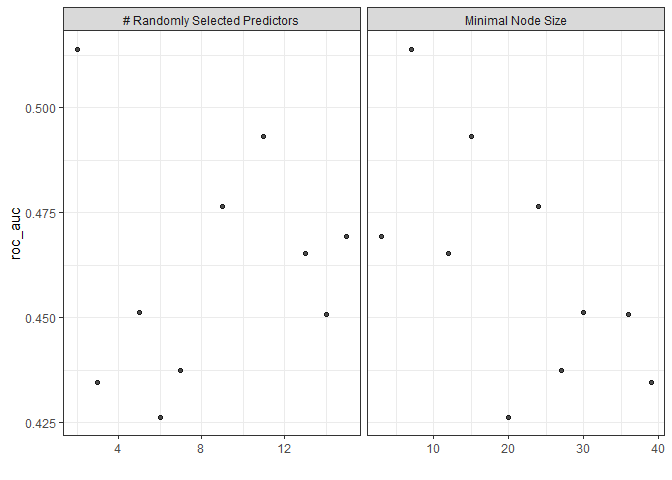
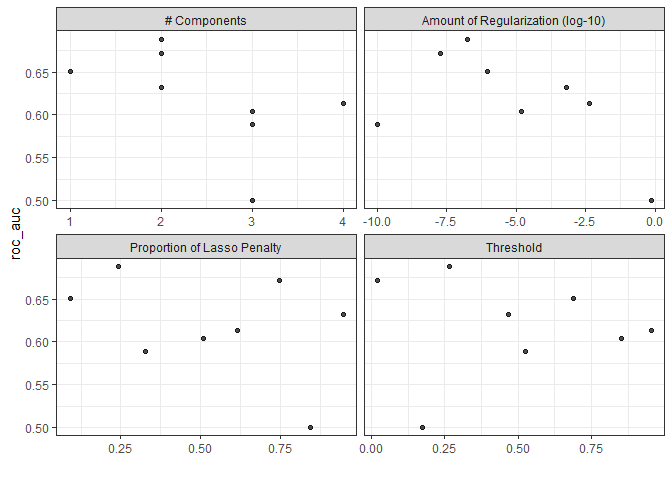
Knit to github doc

diff --git a/predicting_personality.md b/predicting_personality.md
@@ -3,44 +3,56 @@ Posture Project
 Giovani Gutierrez
 2023-02-15
 
-- <a href="#getting-started" id="toc-getting-started">Getting Started</a>
-  - <a href="#setup" id="toc-setup">Setup</a>
-  - <a href="#import-data" id="toc-import-data">Import Data</a>
-  - <a href="#tidy-data--missing-values"
-    id="toc-tidy-data--missing-values">Tidy Data &amp; Missing Values</a>
-- <a href="#exploratory-data-analysis-eda"
-  id="toc-exploratory-data-analysis-eda">Exploratory Data Analysis
+- <a href="#1-getting-started" id="toc-1-getting-started">1 Getting
+  Started</a>
+  - <a href="#11-setup" id="toc-11-setup">1.1 Setup</a>
+  - <a href="#12-import-data" id="toc-12-import-data">1.2 Import Data</a>
+  - <a href="#13-tidy-data--missing-values"
+    id="toc-13-tidy-data--missing-values">1.3 Tidy Data &amp; Missing
+    Values</a>
+- <a href="#2-exploratory-data-analysis-eda"
+  id="toc-2-exploratory-data-analysis-eda">2 Exploratory Data Analysis
   (EDA)</a>
-  - <a href="#correlation-between-features"
-    id="toc-correlation-between-features">Correlation Between Features</a>
-  - <a href="#visual-eda" id="toc-visual-eda">Visual EDA</a>
-- <a href="#model-setup" id="toc-model-setup">Model Setup</a>
-  - <a href="#data-split--k-fold-cross-validation"
-    id="toc-data-split--k-fold-cross-validation">Data Split &amp;
+  - <a href="#21-correlation-between-features"
+    id="toc-21-correlation-between-features">2.1 Correlation Between
+    Features</a>
+  - <a href="#22-visual-eda" id="toc-22-visual-eda">2.2 Visual EDA</a>
+- <a href="#3-model-setup" id="toc-3-model-setup">3 Model Setup</a>
+  - <a href="#31-data-split--k-fold-cross-validation"
+    id="toc-31-data-split--k-fold-cross-validation">3.1 Data Split &amp;
     <em>k</em>-Fold Cross Validation</a>
-  - <a href="#recipe-building--workflow"
-    id="toc-recipe-building--workflow">Recipe Building &amp; Workflow</a>
-  - <a href="#model-specifications" id="toc-model-specifications">Model
-    Specifications</a>
-    - <a href="#first-recipe-simple_rec"
-      id="toc-first-recipe-simple_rec">First Recipe
+  - <a href="#32-recipe-building--workflow"
+    id="toc-32-recipe-building--workflow">3.2 Recipe Building &amp;
+    Workflow</a>
+  - <a href="#33-model-specifications" id="toc-33-model-specifications">3.3
+    Model Specifications</a>
+    - <a href="#331-first-recipe-simple_rec"
+      id="toc-331-first-recipe-simple_rec">3.3.1 First Recipe
       (<code>simple_rec</code>)</a>
-    - <a href="#second-recipe-corr_rec" id="toc-second-recipe-corr_rec">Second
-      Recipe (<code>corr_rec</code>)</a>
-- <a href="#model-tuning--evaluation"
-  id="toc-model-tuning--evaluation">Model Tuning &amp; Evaluation</a>
-  - <a href="#workflow-sets" id="toc-workflow-sets">Workflow Sets</a>
-  - <a href="#workflow-map--tuning" id="toc-workflow-map--tuning">Workflow
-    Map &amp; Tuning</a>
-  - <a href="#evaluation-of-models" id="toc-evaluation-of-models">Evaluation
-    of Models</a>
-    - <a href="#k-nearest-neighbors-1"
-      id="toc-k-nearest-neighbors-1">K-Nearest Neighbors</a>
-    - <a href="#random-forest-1" id="toc-random-forest-1">Random Forest</a>
+    - <a href="#332-second-recipe-corr_rec"
+      id="toc-332-second-recipe-corr_rec">3.3.2 Second Recipe
+      (<code>corr_rec</code>)</a>
+    - <a href="#333-third-recipe-pca_rec"
+      id="toc-333-third-recipe-pca_rec">3.3.3 Third Recipe
+      (<code>pca_rec</code>)</a>
+- <a href="#4-model-tuning--evaluation"
+  id="toc-4-model-tuning--evaluation">4 Model Tuning &amp; Evaluation</a>
+  - <a href="#41-workflow-sets" id="toc-41-workflow-sets">4.1 Workflow
+    Sets</a>
+  - <a href="#42-workflow-map--tuning" id="toc-42-workflow-map--tuning">4.2
+    Workflow Map &amp; Tuning</a>
+  - <a href="#43-evaluation-of-models" id="toc-43-evaluation-of-models">4.3
+    Evaluation of Models</a>
+    - <a href="#431-linear-support-vector-machine"
+      id="toc-431-linear-support-vector-machine">4.3.1 Linear Support Vector
+      Machine</a>
+    - <a href="#432-elastic-net-logistic-regression"
+      id="toc-432-elastic-net-logistic-regression">4.3.2 Elastic Net Logistic
+      Regression</a>
 
-# Getting Started
+# 1 Getting Started
 
-## Setup
+## 1.1 Setup
 
 ``` r
 library(tidyverse)
@@ -53,17 +65,17 @@ library(corrplot)
 library(patchwork)
 library(glmnet)
 library(kknn)
-library(rpart)
-library(rpart.plot)
 library(ranger)
 library(vip)
+library(kernlab)
+library(xgboost)
 tidymodels_prefer()
 theme_set(theme_bw())
 
 set.seed(123)  # set seed
 ```
 
-## Import Data
+## 1.2 Import Data
 
 ``` r
 data1 <- read_xls("C:/Users/giova/Desktop/PSTAT 131/predicting_personality/Data/Posture_Data.xls") %>%
@@ -75,20 +87,15 @@ data1 %>%
 head(data1)  # preview data
 ```
 
-<div class="kable-table">
+<div data-pagedtable="false">
 
-| number_1 | age | height | weight | sex    | activity_level | pain_1 | pain_2 | pain_3 | pain_4 | mbti | e   | i   | s   | n   | t   | f   | j   | p   | posture | number_21 | l1  | l2_d               | l3  | l4_d | l5  | l6_d | l7  | l8_d | l9  | l10_d              | l11 | l12_i | l13 | l14_i               | l15 | l16_i | l17 | l18_i | l19 | l20_i | l21 | l22_i | l23 | l24_i               | l25_i |  l26 | l27 | l28 | l29 | l30                |  l31 |   l32 | l33                 | l34 | l35 |    l36 |   l37 | l38 | l39 | l40 | l41 | l42 | l43 | l44 | l45 |
-|:---------|----:|-------:|-------:|:-------|:---------------|:-------|:-------|:-------|:-------|:-----|:----|:----|:----|:----|:----|:----|:----|:----|:--------|:----------|:----|:-------------------|:----|-----:|:----|-----:|:----|-----:|:----|:-------------------|:----|------:|:----|:--------------------|:----|------:|:----|------:|:----|------:|:----|------:|:----|:--------------------|------:|-----:|----:|----:|:----|:-------------------|-----:|------:|:--------------------|----:|:----|-------:|------:|:----|:----|:----|:----|:----|:----|:----|:----|
-| 1        |  53 |     62 |    125 | Female | Low            | 0      | 0      | 0      | 0      | ESFJ | 18  | 3   | 17  | 9   | 9   | 13  | 18  | 4   | A       | 1         | A   | 4.7000000000000002 | A   |  3.3 | A   |  5.3 | P   |  2.6 | A   | 12.0               | A   |   1.3 | A   | 0.90000000000000002 | A   |   0.0 | A   |   0.5 | P   |   0.5 | L   |   0.5 | A   | 0.59999999999999998 |   0.8 | 10.1 | 0.4 | 0.4 | P   | 56.100000000000001 | 12.6 |  72.3 | 0.29999999999999999 | 2.1 | P   | 364.10 |  81.8 | NA  | NA  | NA  | NA  | NA  | NA  | NA  | NA  |
-| 3        |  30 |     69 |    200 | Male   | High           | 0      | 0      | 0      | 0      | ESTJ | 15  | 6   | 16  | 10  | 15  | 9   | 12  | 10  | A       | 3         | A   | 27.300000000000001 | P   |  5.2 | P   |  0.3 | A   |  3.8 | A   | 12                 | A   |   2.7 | A   | 0.0                 | A   |   1.4 | A   |   0.9 | A   |   1.0 | NA  |   0.0 | A   | 0.69999999999999996 |   0.7 | 16.2 | 2.7 | 4.9 | P   | 194.80000000000001 | 43.8 | 115.6 | 0.10000000000000001 | 1.2 | A   | 537.60 | 120.8 | X   | NA  | NA  | NA  | NA  | NA  | NA  | NA  |
-| 5        |  45 |     63 |    199 | Female | Moderate       | 4      | 5      | 2      | 2      | ENFJ | 14  | 7   | 20  | 6   | 9   | 15  | 16  | 6   | A       | 5         | A   | 2.5                | A   |  2.0 | A   |  2.6 | A   |  1.4 | A   | 20.100000000000001 | A   |   1.0 | A   | 0.90000000000000002 | A   |   0.3 | A   |   1.0 | A   |   0.3 | NA  |   0.0 | A   | 0.80000000000000004 |   0.8 | 16.1 | 0.2 | 0.3 | P   | 79.900000000000006 | 18.0 | 115.0 | 0                   | 0.4 | A   | 520.10 | 116.9 | NA  | NA  | NA  | NA  | NA  | X   | X   | X   |
-| 15       |  30 |     69 |    190 | Male   | Moderate       | 0      | 0      | 4      | 7      | ESTP | 20  | 1   | 22  | 4   | 13  | 11  | 7   | 15  | A       | 16        | A   | 8.5                | A   |  4.0 | A   |  2.0 | P   |  1.5 | A   | 15.300000000000001 | A   |   1.8 | A   | 1.1000000000000001  | P   |   0.0 | A   |   0.1 | P   |   0.3 | L   |   0.1 | A   | 0.5                 |   0.5 | 15.4 | 0.7 | 1.1 | P   | 96.090000000000003 | 21.8 | 109.8 | 0.59999999999999998 | 7.4 | P   | 637.10 | 143.2 | NA  | NA  | NA  | NA  | NA  | NA  | NA  | NA  |
-| 17       |  59 |     66 |    138 | Female | Low            | 6      | 3      | 6      | 6      | ESTJ | 12  | 9   | 18  | 8   | 14  | 10  | 20  | 2   | A       | 19        | A   | 0.5                | P   |  1.1 | A   |  0.3 | A   |  4.0 | A   | 12.1               | A   |   0.4 | A   | 0.40000000000000002 | A   |   0.7 | A   |   1.0 | A   |   0.9 | L   |   0.5 | A   | 0.59999999999999998 |   0.8 | 11.2 | 0.0 | 0.1 | P   | 51.100000000000001 | 11.5 |  79.8 | 0.29999999999999999 | 2.9 | A   | 412.00 |  92.6 | NA  | NA  | NA  | NA  | NA  | NA  | NA  | NA  |
-| 27       |  36 |     68 |    165 | Male   | High           | 0      | 2      | 0      | 0      | ESTP | 16  | 5   | 20  | 6   | 15  | 9   | 7   | 15  | A       | 29        | A   | 14                 | P   |  2.6 | A   |  1.6 | A   |  1.0 | A   | 14.199999999999999 | A   |   1.2 | P   | 0.10000000000000001 | A   |   0.6 | A   |   0.6 | A   |   0.2 | L   |   0.2 | A   | 0.40000000000000002 |   0.4 | 13.4 | 1.3 | 1.9 | P   | 107.59999999999999 | 24.2 |  95.4 | 0.20000000000000001 | 2.3 | A   | 469.05 | 105.5 | X   | NA  | NA  | NA  | NA  | NA  | NA  | NA  |
+<script data-pagedtable-source type="application/json">
+{"columns":[{"label":["number_1"],"name":[1],"type":["chr"],"align":["left"]},{"label":["age"],"name":[2],"type":["dbl"],"align":["right"]},{"label":["height"],"name":[3],"type":["dbl"],"align":["right"]},{"label":["weight"],"name":[4],"type":["dbl"],"align":["right"]},{"label":["sex"],"name":[5],"type":["chr"],"align":["left"]},{"label":["activity_level"],"name":[6],"type":["chr"],"align":["left"]},{"label":["pain_1"],"name":[7],"type":["chr"],"align":["left"]},{"label":["pain_2"],"name":[8],"type":["chr"],"align":["left"]},{"label":["pain_3"],"name":[9],"type":["chr"],"align":["left"]},{"label":["pain_4"],"name":[10],"type":["chr"],"align":["left"]},{"label":["mbti"],"name":[11],"type":["chr"],"align":["left"]},{"label":["e"],"name":[12],"type":["chr"],"align":["left"]},{"label":["i"],"name":[13],"type":["chr"],"align":["left"]},{"label":["s"],"name":[14],"type":["chr"],"align":["left"]},{"label":["n"],"name":[15],"type":["chr"],"align":["left"]},{"label":["t"],"name":[16],"type":["chr"],"align":["left"]},{"label":["f"],"name":[17],"type":["chr"],"align":["left"]},{"label":["j"],"name":[18],"type":["chr"],"align":["left"]},{"label":["p"],"name":[19],"type":["chr"],"align":["left"]},{"label":["posture"],"name":[20],"type":["chr"],"align":["left"]},{"label":["number_21"],"name":[21],"type":["chr"],"align":["left"]},{"label":["l1"],"name":[22],"type":["chr"],"align":["left"]},{"label":["l2_d"],"name":[23],"type":["chr"],"align":["left"]},{"label":["l3"],"name":[24],"type":["chr"],"align":["left"]},{"label":["l4_d"],"name":[25],"type":["dbl"],"align":["right"]},{"label":["l5"],"name":[26],"type":["chr"],"align":["left"]},{"label":["l6_d"],"name":[27],"type":["dbl"],"align":["right"]},{"label":["l7"],"name":[28],"type":["chr"],"align":["left"]},{"label":["l8_d"],"name":[29],"type":["dbl"],"align":["right"]},{"label":["l9"],"name":[30],"type":["chr"],"align":["left"]},{"label":["l10_d"],"name":[31],"type":["chr"],"align":["left"]},{"label":["l11"],"name":[32],"type":["chr"],"align":["left"]},{"label":["l12_i"],"name":[33],"type":["dbl"],"align":["right"]},{"label":["l13"],"name":[34],"type":["chr"],"align":["left"]},{"label":["l14_i"],"name":[35],"type":["chr"],"align":["left"]},{"label":["l15"],"name":[36],"type":["chr"],"align":["left"]},{"label":["l16_i"],"name":[37],"type":["dbl"],"align":["right"]},{"label":["l17"],"name":[38],"type":["chr"],"align":["left"]},{"label":["l18_i"],"name":[39],"type":["dbl"],"align":["right"]},{"label":["l19"],"name":[40],"type":["chr"],"align":["left"]},{"label":["l20_i"],"name":[41],"type":["dbl"],"align":["right"]},{"label":["l21"],"name":[42],"type":["chr"],"align":["left"]},{"label":["l22_i"],"name":[43],"type":["dbl"],"align":["right"]},{"label":["l23"],"name":[44],"type":["chr"],"align":["left"]},{"label":["l24_i"],"name":[45],"type":["chr"],"align":["left"]},{"label":["l25_i"],"name":[46],"type":["dbl"],"align":["right"]},{"label":["l26"],"name":[47],"type":["dbl"],"align":["right"]},{"label":["l27"],"name":[48],"type":["dbl"],"align":["right"]},{"label":["l28"],"name":[49],"type":["dbl"],"align":["right"]},{"label":["l29"],"name":[50],"type":["chr"],"align":["left"]},{"label":["l30"],"name":[51],"type":["chr"],"align":["left"]},{"label":["l31"],"name":[52],"type":["dbl"],"align":["right"]},{"label":["l32"],"name":[53],"type":["dbl"],"align":["right"]},{"label":["l33"],"name":[54],"type":["chr"],"align":["left"]},{"label":["l34"],"name":[55],"type":["dbl"],"align":["right"]},{"label":["l35"],"name":[56],"type":["chr"],"align":["left"]},{"label":["l36"],"name":[57],"type":["dbl"],"align":["right"]},{"label":["l37"],"name":[58],"type":["dbl"],"align":["right"]},{"label":["l38"],"name":[59],"type":["chr"],"align":["left"]},{"label":["l39"],"name":[60],"type":["chr"],"align":["left"]},{"label":["l40"],"name":[61],"type":["chr"],"align":["left"]},{"label":["l41"],"name":[62],"type":["chr"],"align":["left"]},{"label":["l42"],"name":[63],"type":["chr"],"align":["left"]},{"label":["l43"],"name":[64],"type":["chr"],"align":["left"]},{"label":["l44"],"name":[65],"type":["chr"],"align":["left"]},{"label":["l45"],"name":[66],"type":["chr"],"align":["left"]}],"data":[{"1":"1","2":"53","3":"62","4":"125","5":"Female","6":"Low","7":"0","8":"0","9":"0","10":"0","11":"ESFJ","12":"18","13":"3","14":"17","15":"9","16":"9","17":"13","18":"18","19":"4","20":"A","21":"1","22":"A","23":"4.7000000000000002","24":"A","25":"3.3","26":"A","27":"5.3","28":"P","29":"2.6","30":"A","31":"12.0","32":"A","33":"1.3","34":"A","35":"0.90000000000000002","36":"A","37":"0.0","38":"A","39":"0.5","40":"P","41":"0.5","42":"L","43":"0.5","44":"A","45":"0.59999999999999998","46":"0.8","47":"10.1","48":"0.4","49":"0.4","50":"P","51":"56.100000000000001","52":"12.6","53":"72.3","54":"0.29999999999999999","55":"2.1","56":"P","57":"364.10","58":"81.8","59":"NA","60":"NA","61":"NA","62":"NA","63":"NA","64":"NA","65":"NA","66":"NA"},{"1":"3","2":"30","3":"69","4":"200","5":"Male","6":"High","7":"0","8":"0","9":"0","10":"0","11":"ESTJ","12":"15","13":"6","14":"16","15":"10","16":"15","17":"9","18":"12","19":"10","20":"A","21":"3","22":"A","23":"27.300000000000001","24":"P","25":"5.2","26":"P","27":"0.3","28":"A","29":"3.8","30":"A","31":"12","32":"A","33":"2.7","34":"A","35":"0.0","36":"A","37":"1.4","38":"A","39":"0.9","40":"A","41":"1.0","42":"NA","43":"0.0","44":"A","45":"0.69999999999999996","46":"0.7","47":"16.2","48":"2.7","49":"4.9","50":"P","51":"194.80000000000001","52":"43.8","53":"115.6","54":"0.10000000000000001","55":"1.2","56":"A","57":"537.60","58":"120.8","59":"X","60":"NA","61":"NA","62":"NA","63":"NA","64":"NA","65":"NA","66":"NA"},{"1":"5","2":"45","3":"63","4":"199","5":"Female","6":"Moderate","7":"4","8":"5","9":"2","10":"2","11":"ENFJ","12":"14","13":"7","14":"20","15":"6","16":"9","17":"15","18":"16","19":"6","20":"A","21":"5","22":"A","23":"2.5","24":"A","25":"2.0","26":"A","27":"2.6","28":"A","29":"1.4","30":"A","31":"20.100000000000001","32":"A","33":"1.0","34":"A","35":"0.90000000000000002","36":"A","37":"0.3","38":"A","39":"1.0","40":"A","41":"0.3","42":"NA","43":"0.0","44":"A","45":"0.80000000000000004","46":"0.8","47":"16.1","48":"0.2","49":"0.3","50":"P","51":"79.900000000000006","52":"18.0","53":"115.0","54":"0","55":"0.4","56":"A","57":"520.10","58":"116.9","59":"NA","60":"NA","61":"NA","62":"NA","63":"NA","64":"X","65":"X","66":"X"},{"1":"15","2":"30","3":"69","4":"190","5":"Male","6":"Moderate","7":"0","8":"0","9":"4","10":"7","11":"ESTP","12":"20","13":"1","14":"22","15":"4","16":"13","17":"11","18":"7","19":"15","20":"A","21":"16","22":"A","23":"8.5","24":"A","25":"4.0","26":"A","27":"2.0","28":"P","29":"1.5","30":"A","31":"15.300000000000001","32":"A","33":"1.8","34":"A","35":"1.1000000000000001","36":"P","37":"0.0","38":"A","39":"0.1","40":"P","41":"0.3","42":"L","43":"0.1","44":"A","45":"0.5","46":"0.5","47":"15.4","48":"0.7","49":"1.1","50":"P","51":"96.090000000000003","52":"21.8","53":"109.8","54":"0.59999999999999998","55":"7.4","56":"P","57":"637.10","58":"143.2","59":"NA","60":"NA","61":"NA","62":"NA","63":"NA","64":"NA","65":"NA","66":"NA"},{"1":"17","2":"59","3":"66","4":"138","5":"Female","6":"Low","7":"6","8":"3","9":"6","10":"6","11":"ESTJ","12":"12","13":"9","14":"18","15":"8","16":"14","17":"10","18":"20","19":"2","20":"A","21":"19","22":"A","23":"0.5","24":"P","25":"1.1","26":"A","27":"0.3","28":"A","29":"4.0","30":"A","31":"12.1","32":"A","33":"0.4","34":"A","35":"0.40000000000000002","36":"A","37":"0.7","38":"A","39":"1.0","40":"A","41":"0.9","42":"L","43":"0.5","44":"A","45":"0.59999999999999998","46":"0.8","47":"11.2","48":"0.0","49":"0.1","50":"P","51":"51.100000000000001","52":"11.5","53":"79.8","54":"0.29999999999999999","55":"2.9","56":"A","57":"412.00","58":"92.6","59":"NA","60":"NA","61":"NA","62":"NA","63":"NA","64":"NA","65":"NA","66":"NA"},{"1":"27","2":"36","3":"68","4":"165","5":"Male","6":"High","7":"0","8":"2","9":"0","10":"0","11":"ESTP","12":"16","13":"5","14":"20","15":"6","16":"15","17":"9","18":"7","19":"15","20":"A","21":"29","22":"A","23":"14","24":"P","25":"2.6","26":"A","27":"1.6","28":"A","29":"1.0","30":"A","31":"14.199999999999999","32":"A","33":"1.2","34":"P","35":"0.10000000000000001","36":"A","37":"0.6","38":"A","39":"0.6","40":"A","41":"0.2","42":"L","43":"0.2","44":"A","45":"0.40000000000000002","46":"0.4","47":"13.4","48":"1.3","49":"1.9","50":"P","51":"107.59999999999999","52":"24.2","53":"95.4","54":"0.20000000000000001","55":"2.3","56":"A","57":"469.05","58":"105.5","59":"X","60":"NA","61":"NA","62":"NA","63":"NA","64":"NA","65":"NA","66":"NA"}],"options":{"columns":{"min":{},"max":[10]},"rows":{"min":[10],"max":[10]},"pages":{}}}
+  </script>
 
 </div>
 
-## Tidy Data & Missing Values
+## 1.3 Tidy Data & Missing Values
 
 ``` r
 data1 <- data1 %>%
@@ -107,8 +114,7 @@ data1 <- data1 %>%
 
 data1 <- data1 %>%
     mutate(sex = factor(sex)) %>%
-    mutate(activity_level = ordered(activity_level, levels = c("Low", "Moderate",
-        "High"))) %>%
+    mutate(activity_level = factor(activity_level)) %>%
     mutate_at(c("pain_1", "pain_2", "pain_3", "pain_4"), as.numeric) %>%
     mutate(e_i = factor(ifelse(e > i, "Extrovert", "Introvert"))) %>%
     mutate_at(c("s", "n", "t", "f", "j", "p"), as.numeric) %>%
@@ -128,16 +134,11 @@ data1 %>%
 head(data1)  # preview cleaned data
 ```
 
-<div class="kable-table">
+<div data-pagedtable="false">
 
-| age | height | weight | sex    | activity_level | pain_1 | pain_2 | pain_3 | pain_4 |   s |   n |   t |   f |   j |   p | posture | e_i       |
-|----:|-------:|-------:|:-------|:---------------|-------:|-------:|-------:|-------:|----:|----:|----:|----:|----:|----:|:--------|:----------|
-|  53 |     62 |    125 | Female | Low            |      0 |      0 |      0 |      0 |  17 |   9 |   9 |  13 |  18 |   4 | A       | Introvert |
-|  30 |     69 |    200 | Male   | High           |      0 |      0 |      0 |      0 |  16 |  10 |  15 |   9 |  12 |  10 | A       | Introvert |
-|  45 |     63 |    199 | Female | Moderate       |      4 |      5 |      2 |      2 |  20 |   6 |   9 |  15 |  16 |   6 | A       | Introvert |
-|  30 |     69 |    190 | Male   | Moderate       |      0 |      0 |      4 |      7 |  22 |   4 |  13 |  11 |   7 |  15 | A       | Extrovert |
-|  59 |     66 |    138 | Female | Low            |      6 |      3 |      6 |      6 |  18 |   8 |  14 |  10 |  20 |   2 | A       | Introvert |
-|  36 |     68 |    165 | Male   | High           |      0 |      2 |      0 |      0 |  20 |   6 |  15 |   9 |   7 |  15 | A       | Introvert |
+<script data-pagedtable-source type="application/json">
+{"columns":[{"label":["age"],"name":[1],"type":["dbl"],"align":["right"]},{"label":["height"],"name":[2],"type":["dbl"],"align":["right"]},{"label":["weight"],"name":[3],"type":["dbl"],"align":["right"]},{"label":["sex"],"name":[4],"type":["fct"],"align":["left"]},{"label":["activity_level"],"name":[5],"type":["fct"],"align":["left"]},{"label":["pain_1"],"name":[6],"type":["dbl"],"align":["right"]},{"label":["pain_2"],"name":[7],"type":["dbl"],"align":["right"]},{"label":["pain_3"],"name":[8],"type":["dbl"],"align":["right"]},{"label":["pain_4"],"name":[9],"type":["dbl"],"align":["right"]},{"label":["s"],"name":[10],"type":["dbl"],"align":["right"]},{"label":["n"],"name":[11],"type":["dbl"],"align":["right"]},{"label":["t"],"name":[12],"type":["dbl"],"align":["right"]},{"label":["f"],"name":[13],"type":["dbl"],"align":["right"]},{"label":["j"],"name":[14],"type":["dbl"],"align":["right"]},{"label":["p"],"name":[15],"type":["dbl"],"align":["right"]},{"label":["posture"],"name":[16],"type":["fct"],"align":["left"]},{"label":["e_i"],"name":[17],"type":["fct"],"align":["left"]}],"data":[{"1":"53","2":"62","3":"125","4":"Female","5":"Low","6":"0","7":"0","8":"0","9":"0","10":"17","11":"9","12":"9","13":"13","14":"18","15":"4","16":"A","17":"Introvert"},{"1":"30","2":"69","3":"200","4":"Male","5":"High","6":"0","7":"0","8":"0","9":"0","10":"16","11":"10","12":"15","13":"9","14":"12","15":"10","16":"A","17":"Introvert"},{"1":"45","2":"63","3":"199","4":"Female","5":"Moderate","6":"4","7":"5","8":"2","9":"2","10":"20","11":"6","12":"9","13":"15","14":"16","15":"6","16":"A","17":"Introvert"},{"1":"30","2":"69","3":"190","4":"Male","5":"Moderate","6":"0","7":"0","8":"4","9":"7","10":"22","11":"4","12":"13","13":"11","14":"7","15":"15","16":"A","17":"Extrovert"},{"1":"59","2":"66","3":"138","4":"Female","5":"Low","6":"6","7":"3","8":"6","9":"6","10":"18","11":"8","12":"14","13":"10","14":"20","15":"2","16":"A","17":"Introvert"},{"1":"36","2":"68","3":"165","4":"Male","5":"High","6":"0","7":"2","8":"0","9":"0","10":"20","11":"6","12":"15","13":"9","14":"7","15":"15","16":"A","17":"Introvert"}],"options":{"columns":{"min":{},"max":[10]},"rows":{"min":[10],"max":[10]},"pages":{}}}
+  </script>
 
 </div>
 
@@ -172,9 +173,9 @@ head(data1)  # preview cleaned data
 - `e_i`: Categorization of participant as an extrovert or introvert;
   based on whichever score was higher on their MBTI questionnaire
 
-# Exploratory Data Analysis (EDA)
+# 2 Exploratory Data Analysis (EDA)
 
-## Correlation Between Features
+## 2.1 Correlation Between Features
 
 ``` r
 tmwr_cols <- colorRampPalette(c("#91CBD765", "#CA225E"))
@@ -188,7 +189,7 @@ data1 %>%
 
 <img src="predicting_personality_files/figure-gfm/correlation plot-1.png" style="display: block; margin: auto;" />
 
-## Visual EDA
+## 2.2 Visual EDA
 
 ``` r
 ggplot(data = data1, aes(fill = e_i, x = e_i)) + geom_bar(colour = "black") + scale_fill_brewer(palette = "Pastel1") +
@@ -275,12 +276,12 @@ p1 + p2 + p3 + p4
 
 <img src="predicting_personality_files/figure-gfm/pain-plots-1.png" style="display: block; margin: auto;" />
 
-# Model Setup
+# 3 Model Setup
 
-## Data Split & *k*-Fold Cross Validation
+## 3.1 Data Split & *k*-Fold Cross Validation
 
 ``` r
-person_split <- initial_split(data = data1, prop = 0.7, strata = e_i)  # initial split
+person_split <- initial_split(data = data1, prop = 0.8, strata = e_i)  # initial split
 
 person_train <- training(person_split)  # training set
 person_test <- testing(person_split)  # testing set
@@ -288,40 +289,40 @@ person_test <- testing(person_split)  # testing set
 person_folds <- vfold_cv(person_train, v = 10, strata = e_i)  # 10-fold cross validation
 ```
 
-## Recipe Building & Workflow
+## 3.2 Recipe Building & Workflow
 
 ``` r
 simple_rec <- recipe(e_i ~ ., data = person_train)
 
 corr_rec <- simple_rec %>%
-    step_dummy(all_nominal_predictors()) %>%
+    step_corr(all_numeric_predictors(), threshold = tune()) %>%
     step_normalize(all_numeric_predictors()) %>%
-    step_corr(all_numeric_predictors(), threshold = tune())
+    step_dummy(all_nominal_predictors())
+
+pca_rec <- simple_rec %>%
+    step_corr(all_numeric_predictors(), threshold = tune()) %>%
+    step_zv(all_numeric_predictors()) %>%
+    step_normalize(all_numeric_predictors()) %>%
+    step_YeoJohnson(all_numeric_predictors()) %>%
+    step_pca(all_numeric_predictors(), num_comp = tune()) %>%
+    step_dummy(all_nominal_predictors())
 ```
 
-## Model Specifications
+## 3.3 Model Specifications
 
-### First Recipe (`simple_rec`)
+### 3.3.1 First Recipe (`simple_rec`)
 
-#### Decision Tree
+#### 3.3.1.1 Random Forest
 
 ``` r
-tree_spec <- decision_tree(cost_complexity = tune()) %>%
+forest_spec <- rand_forest(mtry = tune(), min_n = tune(), trees = tune()) %>%
     set_mode("classification") %>%
-    set_engine("rpart")
+    set_engine("ranger", importance = "impurity")
 ```
 
-#### Random Forest
+### 3.3.2 Second Recipe (`corr_rec`)
 
-``` r
-forest_spec <- rand_forest(mtry = tune(), min_n = tune(), trees = 1000) %>%
-    set_mode("classification") %>%
-    set_engine("ranger")
-```
-
-### Second Recipe (`corr_rec`)
-
-#### K-Nearest Neighbors
+#### 3.3.2.1 K-Nearest Neighbors
 
 ``` r
 knn_spec <- nearest_neighbor(neighbors = tune()) %>%
@@ -329,83 +330,75 @@ knn_spec <- nearest_neighbor(neighbors = tune()) %>%
     set_engine("kknn")
 ```
 
-#### Logistic Regression
+#### 3.3.2.2 Logistic Regression
 
 ``` r
-log_spec <- logistic_reg() %>%
+log_spec <- logistic_reg(penalty = tune(), mixture = tune()) %>%
     set_mode("classification") %>%
-    set_engine("glm")
+    set_engine("glmnet")
 ```
 
-# Model Tuning & Evaluation
+### 3.3.3 Third Recipe (`pca_rec`)
 
-## Workflow Sets
+#### 3.3.3.1 Support Vector Machine
 
 ``` r
-simple_wf <- workflow_set(preproc = list(simple = simple_rec), models = list(class_tree = tree_spec,
-    random_forest = forest_spec))
+svm_spec <- svm_linear(cost = tune(), margin = tune()) %>%
+    set_mode("classification") %>%
+    set_engine("kernlab")
+```
+
+# 4 Model Tuning & Evaluation
+
+## 4.1 Workflow Sets
+
+``` r
+simple_wf <- workflow_set(preproc = list(simple = simple_rec), models = list(random_forest = forest_spec))
 
 corr_wf <- workflow_set(preproc = list(corr = corr_rec), models = list(knn = knn_spec,
     log_reg = log_spec))
+
+pca_wf <- workflow_set(preproc = list(pca = pca_rec), models = list(log_reg = log_spec,
+    svm = svm_spec))
 ```
 
-## Workflow Map & Tuning
+## 4.2 Workflow Map & Tuning
 
 ``` r
-all_workflows <- bind_rows(simple_wf, corr_wf)
+all_workflows <- bind_rows(simple_wf, corr_wf, pca_wf)
 
 grid_ctrl <- control_grid(save_pred = TRUE, parallel_over = "everything", save_workflow = TRUE)
 
 grid_results <- all_workflows %>%
-    workflow_map(seed = 123, resamples = person_folds, grid = 10, control = grid_ctrl)
+    workflow_map(seed = 123, resamples = person_folds, grid = 8, control = grid_ctrl)
 
 grid_results %>%
     write_rds("C:/Users/giova/Desktop/PSTAT 131/predicting_personality/predicting_personality_files/Models/tuned_grid.rds")
 ```
 
-## Evaluation of Models
+## 4.3 Evaluation of Models
 
 ``` r
 grid_results <- read_rds(file = "C:/Users/giova/Desktop/PSTAT 131/predicting_personality/predicting_personality_files/Models/tuned_grid.rds")
 
-autoplot(grid_results, rank_metric = "roc_auc", metric = "roc_auc", select_best = TRUE)
+autoplot(grid_results, rank_metric = "roc_auc", metric = "roc_auc", select_best = TRUE) +
+    geom_text(aes(y = 0.2, label = wflow_id), angle = 90, hjust = 0) + theme(legend.position = "none")
 ```
 
 <img src="predicting_personality_files/figure-gfm/unnamed-chunk-9-1.png" style="display: block; margin: auto;" />
 
-``` r
-grid_results %>%
-    rank_results() %>%
-    filter(.metric == "roc_auc") %>%
-    select(model, .config, roc_auc = mean, rank) %>%
-    head()
-```
-
-<div class="kable-table">
-
-| model            | .config               |   roc_auc | rank |
-|:-----------------|:----------------------|----------:|-----:|
-| nearest_neighbor | Preprocessor06_Model1 | 0.5805556 |    1 |
-| nearest_neighbor | Preprocessor09_Model1 | 0.5395833 |    2 |
-| nearest_neighbor | Preprocessor07_Model1 | 0.5243056 |    3 |
-| rand_forest      | Preprocessor1_Model10 | 0.5138889 |    4 |
-| decision_tree    | Preprocessor1_Model10 | 0.5079861 |    5 |
-| decision_tree    | Preprocessor1_Model05 | 0.5079861 |    6 |
-
-</div>
-
-### K-Nearest Neighbors
+### 4.3.1 Linear Support Vector Machine
 
 ``` r
-autoplot(grid_results, id = "corr_knn", metric = "roc_auc")
+autoplot(grid_results, id = "pca_svm", metric = "roc_auc")
 ```
 
 <img src="predicting_personality_files/figure-gfm/unnamed-chunk-10-1.png" style="display: block; margin: auto;" />
 
-### Random Forest
+### 4.3.2 Elastic Net Logistic Regression
 
 ``` r
-autoplot(grid_results, id = "simple_random_forest", metric = "roc_auc")
+autoplot(grid_results, id = "pca_log_reg", metric = "roc_auc")
 ```
 
 <img src="predicting_personality_files/figure-gfm/unnamed-chunk-11-1.png" style="display: block; margin: auto;" />
